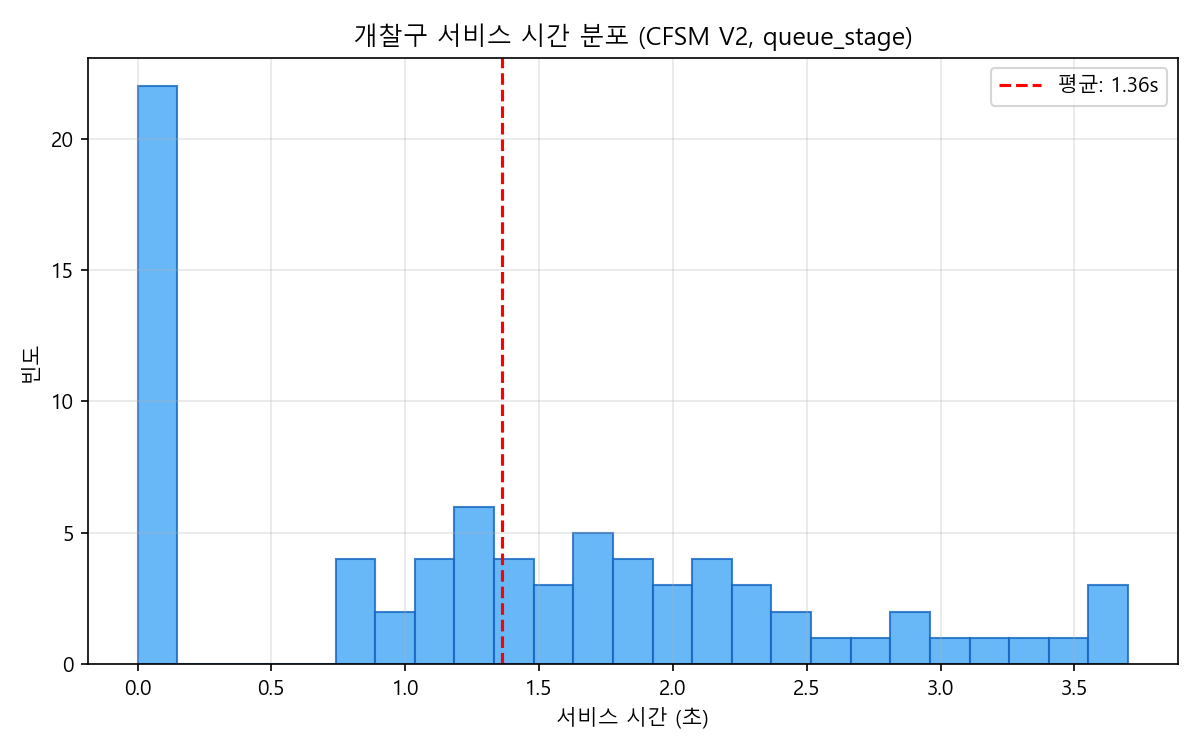
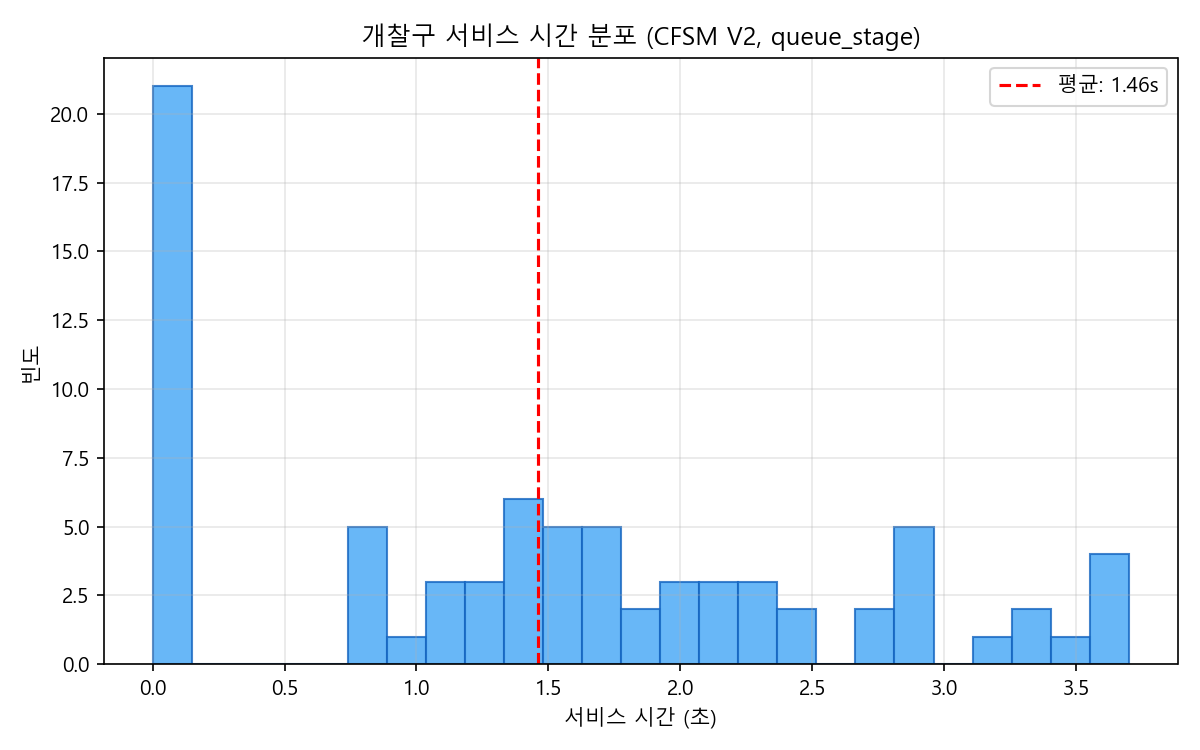
queue_stage 개선: 대기 간격 0.5m + 게이트 클리어링 0.5초
- 대기 위치: 0.8m → 0.5m 간격, 시작점 GATE_X-0.1 (더 가까이)
- 클리어링: 물리 위치 추적 → 고정 0.5초 (게이트 문 닫히는 시간)
- 서비스+클리어링 중 다음 사람 진입 차단 (1인 1게이트)
- 결과: 77/77 통과, 서비스시간 2.01s, 대기열 피크 14명 (G4 default 집중)

diff --git a/simulation/run_west_simulation_cfsm.py b/simulation/run_west_simulation_cfsm.py
@@ -258,13 +258,13 @@ def create_simulation():
         approach_wp_ids.append(wp_id)
 
     # 2단계: Queue Stage (게이트 앞 대기열)
-    # 각 게이트마다 대기 위치 5개: 게이트 뒤(-x 방향)로 0.8m 간격
+    # head = 게이트 바로 앞, 이후 0.5m 간격으로 뒤로
     queue_stage_ids = []
-    queue_stages = []  # NotifiableQueueStage 객체
+    queue_stages = []
     for i, g in enumerate(gates):
         positions = []
         for j in range(5):
-            positions.append((GATE_X - 0.3 - j * 0.8, g["y"]))
+            positions.append((GATE_X - 0.1 - j * 0.5, g["y"]))
         qid = sim.add_queue_stage(positions)
         queue_stage_ids.append(qid)
         queue_stages.append(sim.get_stage(qid))
@@ -452,14 +452,20 @@ def run_simulation():
             arrival_idx += 1
 
         # ── queue_stage 기반 서비스 처리 ──
+        GATE_CLEAR_TIME = 0.5  # 게이트 문 닫히는 시간 (초)
         for gi in range(N_GATES):
             qs = queue_stages[gi]
 
-            # 서비스 중인 에이전트가 있는지 확인
+            # Phase A: 클리어링 중 — 문 닫히는 시간 대기
+            if gate_service[gi] is not None and gate_service[gi].get("clearing"):
+                if current_time - gate_service[gi]["clear_start"] >= GATE_CLEAR_TIME:
+                    gate_service[gi] = None  # 클리어 완료 → 다음 사람 서비스 가능
+                continue
+
+            # Phase B: 서비스 중 → 완료 시 pop + 클리어링
             if gate_service[gi] is not None:
                 svc = gate_service[gi]
                 if current_time - svc["start"] >= svc["duration"]:
-                    # 서비스 완료 -> pop
                     aid_done = svc["agent_id"]
                     qs.pop(1)
                     if aid_done not in passed_agents:
@@ -468,27 +474,27 @@ def run_simulation():
                         passed_agents.add(aid_done)
                     if aid_done in agent_data:
                         agent_data[aid_done]["serviced"] = True
-                    gate_service[gi] = None
+                    gate_service[gi] = {"clearing": True, "clear_start": current_time}
+                continue
 
-            # 서비스 중이 아니고, 큐에 에이전트가 있으면 서비스 시작
-            if gate_service[gi] is None and qs.count_enqueued() > 0:
+            # Phase C: 게이트 비어있고 큐에 사람 있으면 서비스 시작
+            if qs.count_enqueued() > 0:
                 enqueued = qs.enqueued()
                 if enqueued:
                     head_aid = enqueued[0]
                     if head_aid in agent_data:
                         ad = agent_data[head_aid]
                         if ad["serviced"] or head_aid in passed_agents:
-                            # 이미 서비스된 에이전트가 큐에 있으면 pop
                             qs.pop(1)
                             continue
-                        is_tagless = ad["is_tagless"]
-                        if is_tagless:
-                            # 태그리스: 즉시 pop (서비스 시간 0)
+                        if ad["is_tagless"]:
+                            # 태그리스: 즉시 pop → 짧은 클리어링
                             qs.pop(1)
                             stats["service_times"].append(0.0)
                             stats["gate_counts"][gi] += 1
                             ad["serviced"] = True
                             passed_agents.add(head_aid)
+                            gate_service[gi] = {"clearing": True, "clear_start": current_time}
                         else:
                             # 태그: 서비스 시작
                             gate_service[gi] = {
@@ -498,7 +504,7 @@ def run_simulation():
                             }
 
         # ── 게이트 점유 상태 (재선택용) ──
-        gate_occupied = [gate_service[gi] is not None for gi in range(N_GATES)]
+        gate_occupied = [gate_service[gi] is not None for gi in range(N_GATES)]  # 서비스 중 + 클리어링 중 모두 점유
 
         # ── 게이트 선택 / 경로 변경: Gao (2019) ──
         gate_queue = count_gate_queue_from_stages(queue_stages)
@@ -506,7 +512,7 @@ def run_simulation():
         # 서비스 중인 에이전트 ID 집합 (재선택 방지)
         in_service_aids = set()
         for gi_s in range(N_GATES):
-            if gate_service[gi_s] is not None:
+            if gate_service[gi_s] is not None and "agent_id" in gate_service[gi_s]:
                 in_service_aids.add(gate_service[gi_s]["agent_id"])
 
         for agent in sim.agents():
